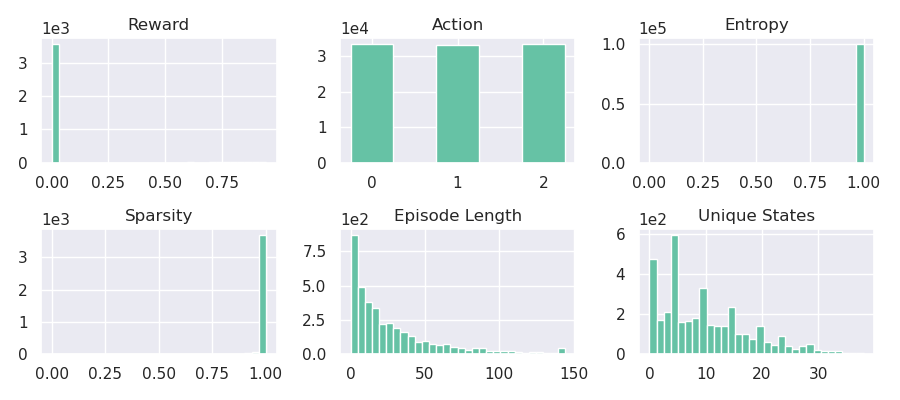
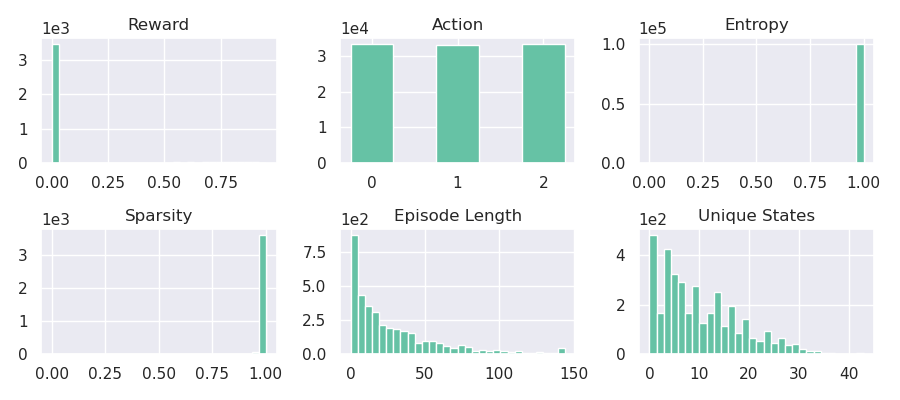
new evaluation results

diff --git a/results/ds_eval/MiniGrid-SimpleCrossingS9N1-v0.tex b/results/ds_eval/MiniGrid-SimpleCrossingS9N1-v0.tex
@@ -2,13 +2,13 @@
 \centering
 \begin{tabular}{l|ccc}
 Metric  \hspace{8pt} \symbol{92} \hspace{8pt} Buffer Type & Experience Replay & Fully Trained Behavioral & Random Policy \\ \hline 
-Reward & $0.40 \pm 0.38$ & $0.12 \pm 0.31$ & $0.09 \pm 0.20$\\ 
-Reward (Normalized) & $0.40 \pm 0.38$ & $0.12 \pm 0.31$ & $0.09 \pm 0.20$\\ 
-Entropy & $0.80 \pm 0.17$ & $0.01 \pm 0.03$ & $1.00 \pm 0.00$\\ 
-Episode Length & $200.80 \pm 122.60$ & $286.68 \pm 100.72$ & $299.80 \pm 60.49$\\ 
+Reward & $0.40 \pm 0.38$ & $0.14 \pm 0.34$ & $0.10 \pm 0.22$\\ 
+Reward (Normalized) & $0.40 \pm 0.38$ & $0.14 \pm 0.34$ & $0.10 \pm 0.22$\\ 
+Entropy (Normalized) & $0.91 \pm 0.13$ & $0.01 \pm 0.04$ & $1.00 \pm 0.00$\\ 
+Episode Length & $201.19 \pm 122.09$ & $279.21 \pm 108.65$ & $295.75 \pm 66.33$\\ 
 Sparsity & $0.99 \pm 0.02$ & $0.99 \pm 0.02$ & $1.00 \pm 0.00$\\ 
-Unique States / Episode & $28.35 \pm 12.46$ & $6.72 \pm 3.81$ & $62.31 \pm 19.50$\\ 
-Unique States & $0.0142$ & $0.0019$ & $0.0177$\\ 
+Unique States / Episode & $32.51 \pm 14.68$ & $8.82 \pm 4.67$ & $61.28 \pm 20.23$\\ 
+Unique States & $0.0151$ & $0.0025$ & $0.0175$\\ 
 \end{tabular}
 \caption{Dataset evaluation metrics for all buffer types of environment 'MiniGrid-SimpleCrossingS9N1-v0'.}
 \label{tab:ds_eval_simple}

diff --git a/results/ds_eval/MiniGrid-LavaGapS6-v0.tex b/results/ds_eval/MiniGrid-LavaGapS6-v0.tex
@@ -2,13 +2,13 @@
 \centering
 \begin{tabular}{l|ccc}
 Metric  \hspace{8pt} \symbol{92} \hspace{8pt} Buffer Type & Experience Replay & Fully Trained Behavioral & Random Policy \\ \hline 
-Reward & $0.64 \pm 0.42$ & $0.71 \pm 0.41$ & $0.04 \pm 0.17$\\ 
-Reward (Normalized) & $0.64 \pm 0.42$ & $0.71 \pm 0.41$ & $0.04 \pm 0.17$\\ 
-Entropy & $0.80 \pm 0.14$ & $0.00 \pm 0.00$ & $1.00 \pm 0.01$\\ 
-Episode Length & $49.52 \pm 57.54$ & $42.11 \pm 58.96$ & $26.56 \pm 29.39$\\ 
+Reward & $0.63 \pm 0.41$ & $0.71 \pm 0.41$ & $0.04 \pm 0.16$\\ 
+Reward (Normalized) & $0.63 \pm 0.41$ & $0.71 \pm 0.41$ & $0.04 \pm 0.16$\\ 
+Entropy (Normalized) & $0.86 \pm 0.13$ & $0.00 \pm 0.00$ & $1.00 \pm 0.00$\\ 
+Episode Length & $50.71 \pm 57.17$ & $41.95 \pm 58.87$ & $27.41 \pm 29.82$\\ 
 Sparsity & $0.93 \pm 0.06$ & $0.91 \pm 0.06$ & $1.00 \pm 0.01$\\ 
-Unique States / Episode & $10.68 \pm 4.50$ & $7.59 \pm 1.25$ & $9.85 \pm 7.63$\\ 
-Unique States & $0.0025$ & $0.0005$ & $0.0026$\\ 
+Unique States / Episode & $11.13 \pm 5.01$ & $7.22 \pm 1.52$ & $10.12 \pm 7.88$\\ 
+Unique States & $0.0024$ & $0.0005$ & $0.0026$\\ 
 \end{tabular}
 \caption{Dataset evaluation metrics for all buffer types of environment 'MiniGrid-LavaGapS6-v0'.}
 \label{tab:ds_eval_lava}

diff --git a/results/ds_eval/CartPole-v1.tex b/results/ds_eval/CartPole-v1.tex
@@ -3,12 +3,12 @@
 \begin{tabular}{l|ccc}
 Metric  \hspace{8pt} \symbol{92} \hspace{8pt} Buffer Type & Experience Replay & Fully Trained Behavioral & Random Policy \\ \hline 
 Reward & $366.02 \pm 162.39$ & $295.53 \pm 12.39$ & $22.04 \pm 11.60$\\ 
-Reward (Normalized) & $0.72 \pm 0.34$ & $0.57 \pm 0.03$ & $0.00 \pm 0.02$\\ 
-Entropy & $0.77 \pm 0.24$ & $0.30 \pm 0.37$ & $1.00 \pm 0.00$\\ 
+Reward (Normalized) & $0.73 \pm 0.32$ & $0.59 \pm 0.02$ & $0.04 \pm 0.02$\\ 
+Entropy (Normalized) & $0.77 \pm 0.24$ & $0.30 \pm 0.37$ & $1.00 \pm 0.00$\\ 
 Episode Length & $366.02 \pm 162.39$ & $295.53 \pm 12.39$ & $22.04 \pm 11.60$\\ 
 Sparsity & $0.00 \pm 0.00$ & $0.00 \pm 0.00$ & $0.00 \pm 0.00$\\ 
-Unique States / Episode & $68.24 \pm 34.27$ & $42.86 \pm 3.78$ & $8.85 \pm 6.06$\\ 
-Unique States & $0.0194$ & $0.0057$ & $0.0273$\\ 
+Unique States / Episode & $185.17 \pm 89.92$ & $100.16 \pm 6.09$ & $15.70 \pm 10.53$\\ 
+Unique States & $0.1379$ & $0.029$ & $0.1667$\\ 
 \end{tabular}
 \caption{Dataset evaluation metrics for all buffer types of environment 'CartPole-v1'.}
 \label{tab:ds_eval_cartpole}

diff --git a/results/ds_eval/Acrobot-v1.tex b/results/ds_eval/Acrobot-v1.tex
@@ -4,11 +4,11 @@
 Metric  \hspace{8pt} \symbol{92} \hspace{8pt} Buffer Type & Experience Replay & Fully Trained Behavioral & Random Policy \\ \hline 
 Reward & $-93.17 \pm 35.83$ & $-81.84 \pm 14.10$ & $-499.37 \pm 5.73$\\ 
 Reward (Normalized) & $0.97 \pm 0.09$ & $1.00 \pm 0.03$ & $0.00 \pm 0.01$\\ 
-Entropy & $0.51 \pm 0.26$ & $0.12 \pm 0.22$ & $1.00 \pm 0.00$\\ 
+Entropy (Normalized) & $0.51 \pm 0.26$ & $0.12 \pm 0.22$ & $1.00 \pm 0.00$\\ 
 Episode Length & $94.17 \pm 35.81$ & $82.84 \pm 14.10$ & $499.38 \pm 5.62$\\ 
 Sparsity & $0.01 \pm 0.00$ & $0.01 \pm 0.00$ & $0.00 \pm 0.00$\\ 
-Unique States / Episode & $82.97 \pm 20.69$ & $75.98 \pm 12.52$ & $326.82 \pm 49.03$\\ 
-Unique States & $0.0705$ & $0.0244$ & $0.0969$\\ 
+Unique States / Episode & $93.32 \pm 31.61$ & $82.81 \pm 14.01$ & $490.81 \pm 8.88$\\ 
+Unique States & $0.4254$ & $0.1554$ & $0.6305$\\ 
 \end{tabular}
 \caption{Dataset evaluation metrics for all buffer types of environment 'Acrobot-v1'.}
 \label{tab:ds_eval_acrobot}
